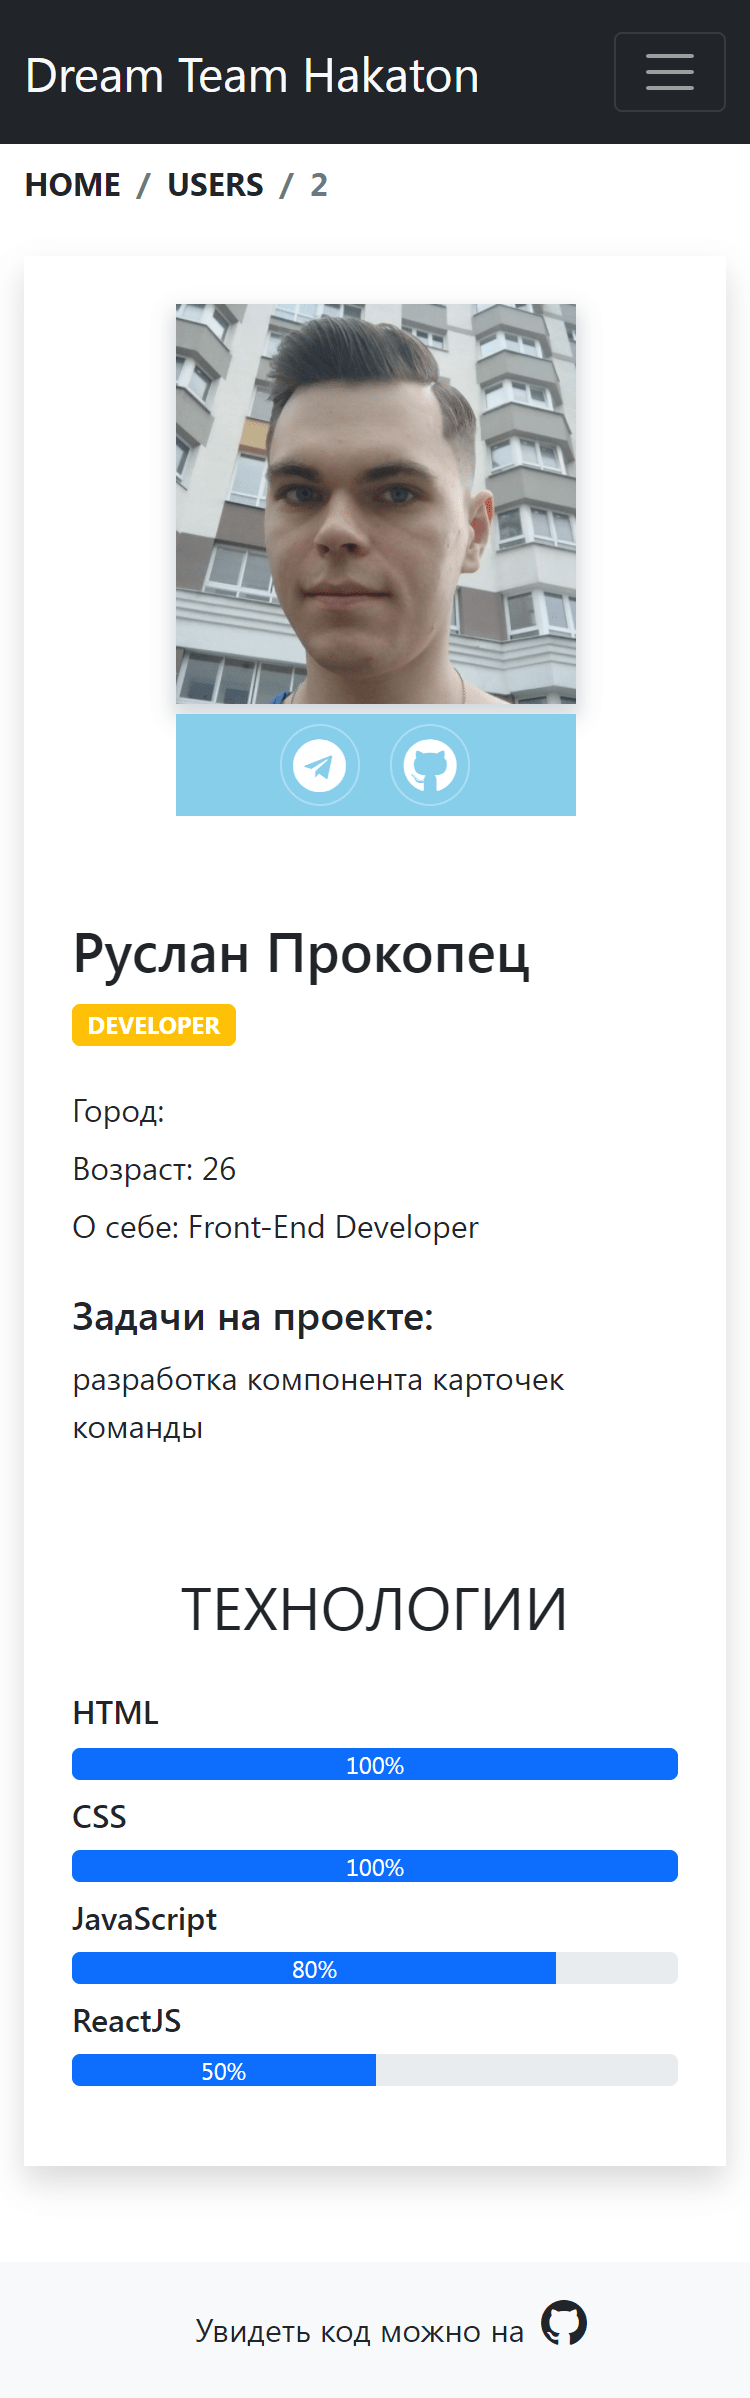
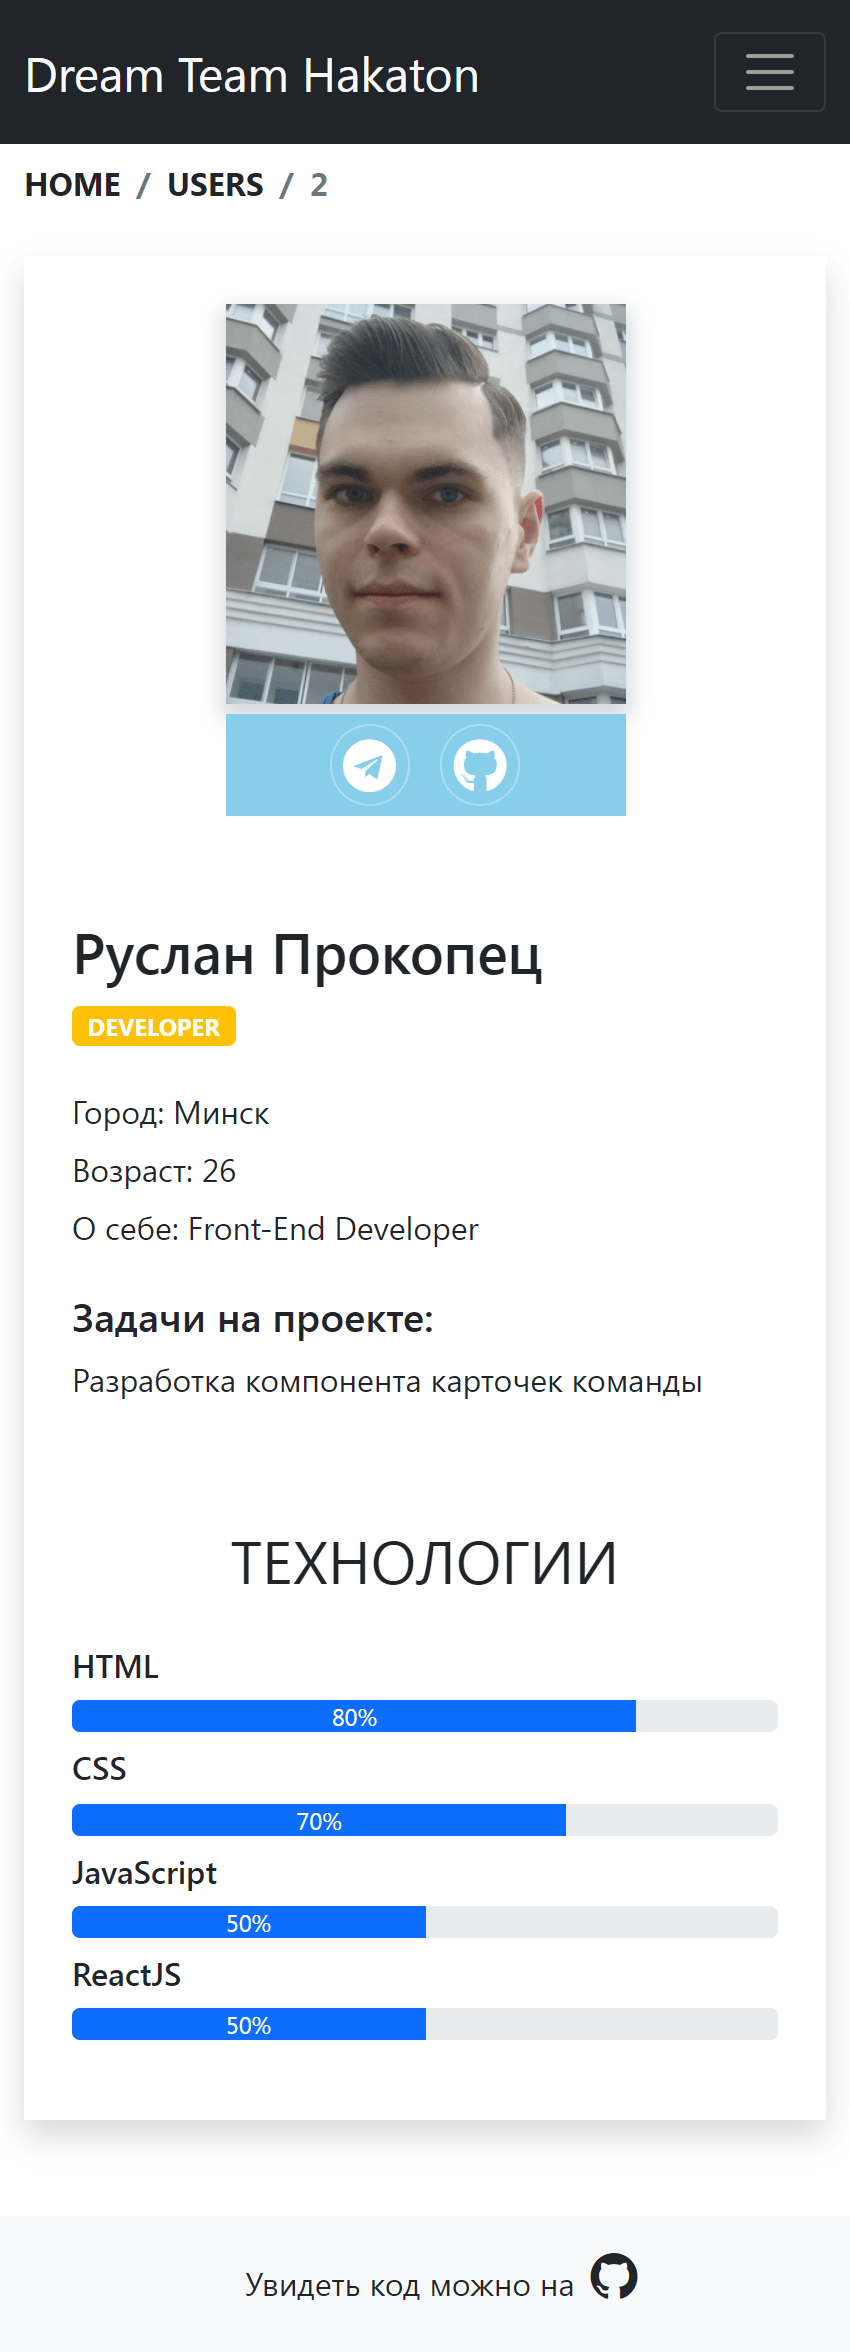
fix

diff --git a/src/pages/projects.jsx b/src/pages/projects.jsx
@@ -38,8 +38,7 @@ const Projects = () => {
                     <h5>Задачи на проекте</h5>
                     <p className="bg-black p-2">
                       <i className="bi bi-arrow-right text-info"></i>
-                      Разработка компонента карточек команды, компонент progress
-                      bar
+                      Разработка компонента карточек команды
                     </p>
                   </div>
                   <div>
